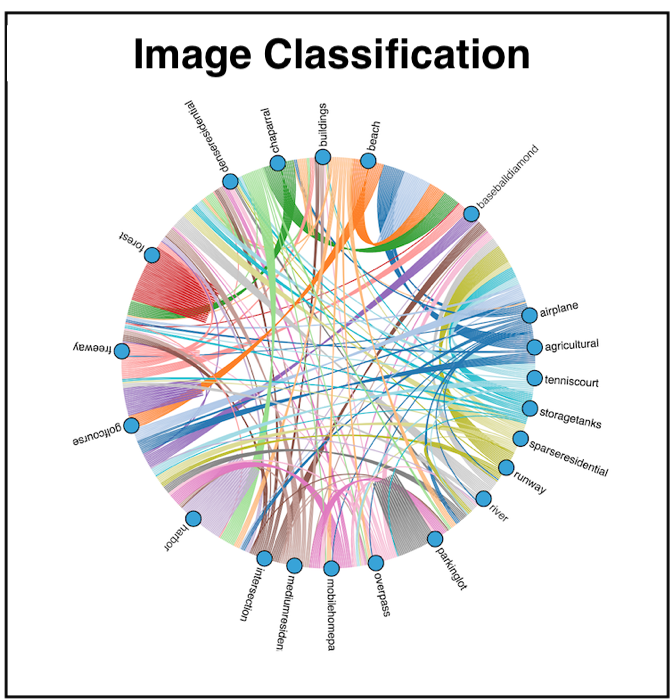
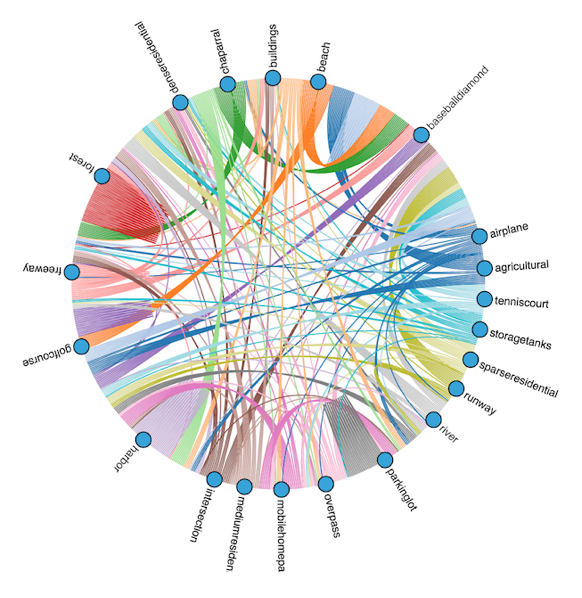
Removing title and border from collage. Use HTML instead (#78)

diff --git a/doc/index.rst b/doc/index.rst
@@ -56,28 +56,31 @@ learning and related tasks in the Earth sciences, such as:
 
 .. raw:: html
 
-   <div style="display: grid;
-               grid-template-columns: fit-content(350px) fit-content(350px) fit-content(350px);
-               grid-gap: 20px;
-               padding: 20px;">
-
-      <a href="topics/Carbon_Flux.html" >
-         <img src="_static/collage/carbon.png" />
-      </a>
-      <a href="topics/Heat_and_Trees.html">
-         <img src="_static/collage/trees.png" />
-      </a>
-      <a href="topics/Walker_Lake.html">
-         <img src="_static/collage/walker.png" />
-      </a>
-      <a href="topics/Image_Classification.html" >
-         <img src="_static/collage/classifier.png" />
-      </a>
-      <a href="topics/Landsat_Spectral_Clustering.html"  >
-         <img src="_static/collage/cluster.png" />
-      </a>
-   </div>
-
+   <style>table {border-spacing: 15px} td { border: 1px solid black; vertical-align: top} </style>
+   <table>
+     <tr>
+       <td border=1>
+         <a href="topics/Carbon_Flux.html"><b>Carbon Flux</b></a><br>
+         <a href="topics/Carbon_Flux.html"><img src="_static/collage/carbon.png" /></a>
+       </td>
+       <td border=1>
+         <a href="topics/Heat_and_Trees.html"><b>Heat and Trees</b></a><br>
+         <a href="topics/Heat_and_Trees.html"><img src="_static/collage/trees.png" /></a>
+       </td>
+       <td border=1>
+         <a href="topics/Walker_Lake.html"><b>Walker Lake</b></a><br>
+         <a href="topics/Walker_Lake.html"><img src="_static/collage/walker.png" /></a>
+       </td>
+       <td border=1>
+         <a href="topics/Image_Classification.html"><b>Classification</b></a><br>
+         <a href="topics/Image_Classification.html"><img src="_static/collage/classifier.png" /></a>
+       </td>
+       <td border=1>
+         <a href="topics/Landsat_Spectral_Clustering.html"><b>Clustering</b></a><br>
+         <a href="topics/Landsat_Spectral_Clustering.html"><img src="_static/collage/cluster.png" /></a>
+       </td>
+     <tr>
+   </table>
 
 Please feel free to report `issues
 <https://github.com/pyviz-topics/EarthML/issues>`_ or `contribute code
